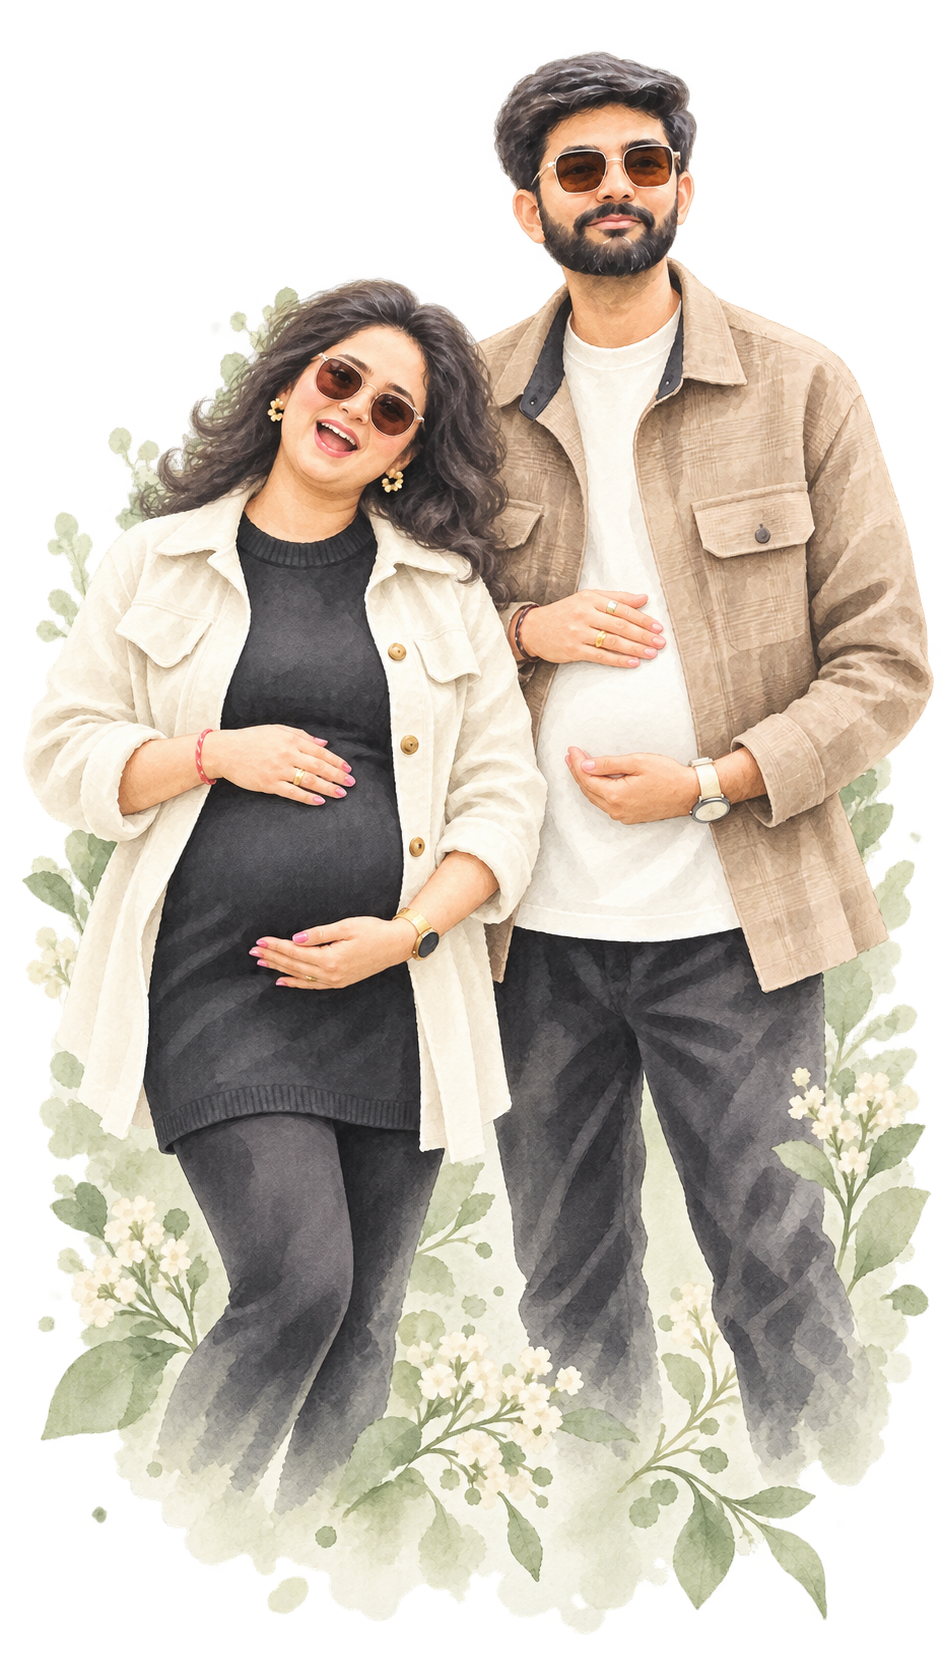
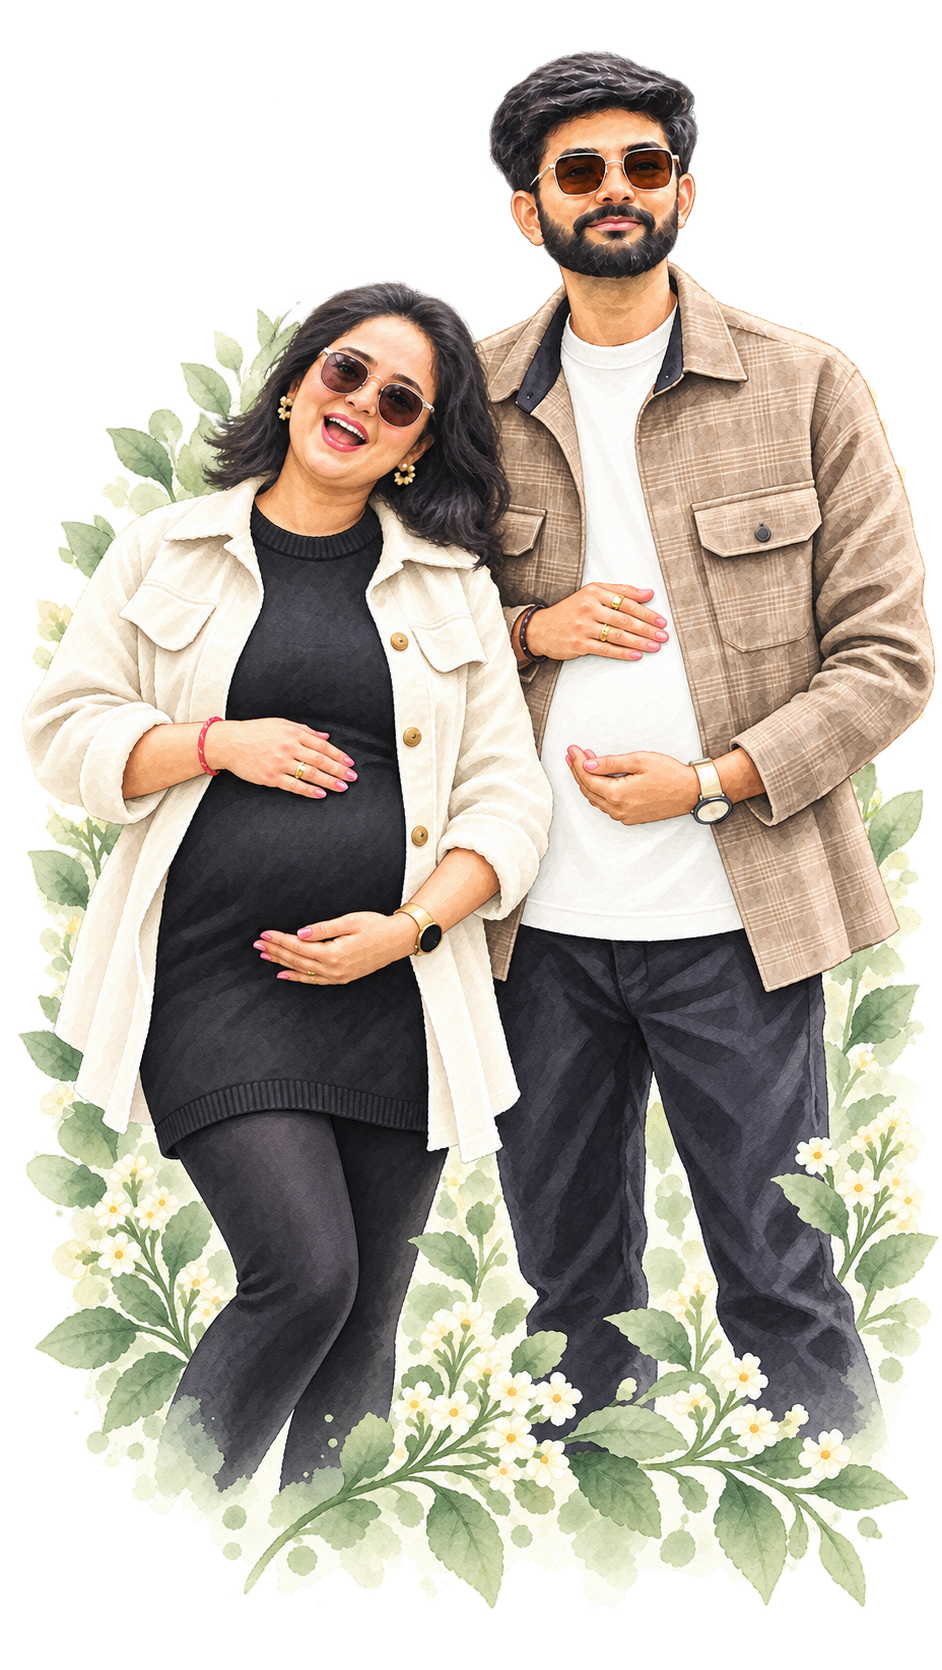
Update approved portrait, fix RSVP fallback and remove template assets

diff --git a/index.html b/index.html
@@ -115,7 +115,7 @@
       <div class="form-content reveal-on-scroll" data-teddy-cover>
         <p class="eyebrow">Come join the fun</p><h2 id="rsvp-title">We’d love to have you <em>with us.</em></h2>
         <p class="section-intro">Let us know who’s coming along.</p><p class="rsvp-deadline">Please RSVP by <strong>November 15, 2026</strong></p>
-        <p class="form-availability" id="form-availability" role="status">Our RSVP form will be ready soon. Please check back before November 15.</p>
+        <p class="form-availability" id="form-availability" role="status" hidden>Having trouble sending your RSVP? Message Aruni or Jaydeep on WhatsApp and we’ll help you out.</p>
         <a id="google-form-link" class="button" href="#rsvp" hidden target="_blank" rel="noopener noreferrer">Let us know you’re coming <span aria-hidden="true">↗</span></a>
         <form class="rsvp-form" id="rsvp-form" method="post" novalidate>
           <div class="field"><label for="guest-name">Your name</label><input id="guest-name" name="name" type="text" autocomplete="name" maxlength="100" placeholder="Your name or family name" required aria-describedby="name-error"><p class="field-error" id="name-error"></p></div>
@@ -128,7 +128,7 @@
           <button class="button submit-button" id="submit-rsvp" type="submit" disabled><span>Send RSVP</span><span aria-hidden="true">↗</span></button><p id="form-status" class="form-status" role="status" aria-live="polite" tabindex="-1"></p>
         </form>
         <div class="rsvp-success" id="rsvp-success" hidden tabindex="-1"><span aria-hidden="true">♡</span><h3>Yay! See you at the party!</h3><p>Thank you for letting us know.<br>We’re looking forward to celebrating with you!</p><p id="rsvp-receipt"></p></div>
-        <noscript><p>Please enable JavaScript to send your RSVP. The event details and venue link are available above.</p></noscript>
+        <noscript><p>Please enable JavaScript to use the RSVP form.</p></noscript>
       </div>
     </section>
   </main>

diff --git a/js/invitation.js b/js/invitation.js
@@ -260,17 +260,22 @@
       const current = Object.fromEntries(Object.entries(fields).map(([name, input]) => [name, input.value]));
       const canSend = !serverClosed && core.canSubmitRsvp(config.rsvpDeadline, current, attempt);
       submit.disabled = inFlight || !canSend || !endpointReady;
+      let message = !endpointReady && !formLinkReady
+        ? 'Having trouble sending your RSVP? Message Aruni or Jaydeep on WhatsApp and we’ll help you out.'
+        : '';
       if (!open) {
-        availability.textContent = canSend
+        if (endpointReady || formLinkReady) message = canSend
           ? 'Our RSVP date has passed. You can still retry your unchanged details to check their confirmation.'
           : 'Our RSVP date has passed. Thank you for all the love!';
-        availability.hidden = false;
         byId('google-form-link').hidden = true;
       } else if (!endpointReady && formLinkReady) {
-        form.hidden = true; availability.hidden = true;
+        form.hidden = true;
         byId('google-form-link').href = config.googleFormUrl;
         byId('google-form-link').hidden = false;
-      } else availability.hidden = endpointReady;
+      }
+      // Only show contact guidance when no RSVP destination was configured.
+      if (availability.textContent !== message) availability.textContent = message;
+      availability.hidden = !message;
     }
     function showErrors(errors) {
       Object.entries(fields).forEach(([key, input]) => {

diff --git a/docs/SETUP.md b/docs/SETUP.md
@@ -14,7 +14,7 @@ The event is November 29, 2026, **10 AM onwards**, Hamilton time. The fixed coun
 
 ## Connect the custom RSVP form to a private Sheet
 
-The form is implemented, but it cannot store live responses until the hosts deploy their receiver. With an empty `rsvpEndpoint`, the invitation clearly says the form is not ready and disables submission. It never claims to save an RSVP without a confirmed server receipt.
+The custom form stores responses through the hosts’ deployed receiver. Without a configured receiver or Google Form alternative, submission is disabled and guests are advised to contact Aruni or Jaydeep on WhatsApp. This fallback is hidden when an RSVP destination is configured, including after a failed submission. It never claims to save an RSVP without a confirmed server receipt.
 
 1. Open [Google Apps Script](https://script.google.com/) in the account that should own the response Sheet, and create a new project.
 2. Paste the contents of `apps-script/Code.gs` into the project's `Code.gs`.
@@ -23,7 +23,7 @@ The form is implemented, but it cannot store live responses until the hosts depl
 5. Share **that Sheet** only with your co-hosts. Do not publish it or turn on public link sharing.
 6. Select **Deploy → New deployment → Web app**. Set **Execute as: Me** and **Who has access: Anyone**. Guests need anonymous access to submit; the script uses your permissions to write to the private Sheet. Deployment availability can depend on your Google Workspace administrator.
 7. Copy the deployed URL ending in `/exec`. In your GitHub repository, open **Settings → Secrets and variables → Actions → New repository secret**. Name it **RSVP_ENDPOINT** and paste the URL as its value. Leave `rsvpEndpoint` empty in `js/site-config.js`.
-8. After the updated workflow is pushed, run the Pages workflow on the branch you intend to deploy, or push to `main` or `master`. Adding or changing a secret alone does not trigger deployment. The build inserts the URL into `_site/js/site-config.js`, leaving the source configuration unchanged. Invalid nonempty URLs fail the build; without a secret, the default custom form stays disabled.
+8. Set **Settings → Pages → Build and deployment → Source** to **GitHub Actions**. Then run **Publish invitation to GitHub Pages** on the branch you intend to deploy, or push to `main` or `master`. Adding or changing a secret alone does not trigger deployment. The build inserts the URL into `_site/js/site-config.js`, leaving the source configuration unchanged. Invalid nonempty URLs fail the build. An Actions build also fails when the receiver secret is missing unless an official Google Form alternative is configured, preventing a release with a disabled RSVP form.
 9. Reload the deployed invitation. The form becomes available until the RSVP deadline. Make one explicitly authorized test response yourself and confirm that it appears in the private Sheet before sharing the invitation.
 
 The repository secret prevents the URL from appearing in committed source. The deployed JavaScript and browser requests still expose it to visitors, because the browser submits directly to Apps Script. Keep the response Sheet restricted; endpoint secrecy is not guest authentication. Never place Google credentials or Sheet contents in this setting.
@@ -34,7 +34,7 @@ For local use, put the same deployed `/exec` URL in the root `.env` file:
 RSVP_ENDPOINT=https://script.google.com/macros/s/YOUR_DEPLOYMENT_ID/exec
 ```
 
-The build loads `.env` automatically. Existing shell or GitHub Actions environment values take priority. `.env` and its variants are ignored by Git; `.env.example` contains only an empty template. Run `npm run dev` to build and preview with the configured endpoint. Opening the source `index.html` directly does not load `.env`. Keep the GitHub `RSVP_ENDPOINT` repository secret configured separately for deployment, since `.env` is not pushed.
+Local builds load `.env` automatically, with existing shell environment values taking priority. Actions builds use only the workflow environment and do not load `.env`. `.env` and its variants are ignored by Git; `.env.example` contains only an empty template. Run `npm run dev` to build and preview with the configured endpoint. Opening the source `index.html` directly does not load `.env`. Keep the GitHub `RSVP_ENDPOINT` repository secret configured separately for deployment, since `.env` is not pushed.
 
 When editing the Apps Script later, update its deployment to a new version. Merely saving editor changes does not update the deployed version. Keep its existing deployment URL when possible.
 
@@ -57,6 +57,8 @@ The real photos have not been supplied, so the invitation uses teddy and floral 
 1. Push the reviewed project to your own repository. In **Settings → Pages → Build and deployment**, choose **GitHub Actions**.
 2. The included `pages.yml` workflow runs checks and deploys `_site/` after a push to `main` or `master`, or when manually dispatched. The implementation branch itself is not automatically published.
 3. Open the URL provided by GitHub's deployment and check it on a phone. Relative asset links support project sites under `/repository-name/`.
+
+If RSVP stops working after a successful deployment, check the Pages **Source** first. **Deploy from a branch** publishes the unbuilt files from `main`, where `rsvpEndpoint` is intentionally empty. That deployment does not read Actions secrets and can replace a correctly built site. Select **GitHub Actions**, then rerun **Publish invitation to GitHub Pages** for `main` and reload the invitation when it finishes. The response Sheet and Apps Script deployment do not need to be recreated for this configuration issue.
 
 The template author's `CNAME` has been removed. Add your own only if you have configured a custom domain, and include it in the build allowlist. A private source repository does not normally make the published site private. Only the invitation is deployed; the response Sheet stays in your Google account.
 

diff --git a/docs/watercolor-memories.md b/docs/watercolor-memories.md
@@ -11,9 +11,11 @@ Final saved paths:
 - [PNG](../img/invitation/memories/couple-6929.png)
 - [WebP](../img/invitation/memories/couple-6929.webp)
 
+The opening illustration was regenerated on November 1, 2026 and approved by the hosts after a revision focused on Aruni’s likeness. The original IMG_6929 photograph was the authoritative identity reference; the preceding generated version supplied the composition and watercolor treatment. The approved PNG retains transparency and the original 942 × 1670 dimensions; the public WebP is a lossless copy. Built-in image generation was used.
+
 Final prompt:
 
-Use case: style-transfer. REDRAW the people in image 1 as a distinctly illustrated, airy pastel watercolor storybook painting, matching the PEOPLE treatment in style reference image 2. Image 1 is the edit target: keep the same couple, sunglasses, woman on left smiling and cradling her bump, man on right playfully holding his stomach, same clothes and recognizable hair/face silhouettes. Image 2 is only the visual style reference. This must look like an illustrator painted the people from scratch, with SIMPLIFIED faces, broad translucent brush-painted skin tones, soft unoutlined contours, gently stylized natural proportions and flowing shapes. Use a few elegant painted marks for facial features. Hair should be broad dark flowing painted shapes and a simplified beard, not individual strands. Clothes should be pale flowing watercolor blocks with a few hand-painted folds; no photographic fabric weave, pores, sharp realistic highlights, or photographic facial texture. Remove the photo-like treatment completely. The level of simplification should be like the small illustrated couple in image 2, brought closer for readability. Warm, joyful, graceful, not chibi or exaggerated cartoon, not vector. Keep the same playful pose and identities through hairstyle, beard, sunglasses, expression, body proportions and clothes, accepting a painterly interpretation of their faces. Sparse pale sage leaves and white flowers may dissolve around the lower body; much lighter and less detailed than image 1. Portrait composition; whole heads and hands fully visible, lower edge softly painted away. Fresh cool off-white, pale sage and charcoal with natural warm skin; no creamy yellow background. Truly TRANSPARENT beyond the irregular hand-painted edges. No hard frame, no text, no logos, no watermark, no extra people or props.
+Use case: identity-preserve. Revise illustration IMAGE 2 with a highly targeted correction: the WOMAN ON THE LEFT must closely resemble the actual woman in ORIGINAL PHOTO IMAGE 1. Image 1 is the authoritative identity reference; image 2 is the edit target. The previous rendering changed her likeness too much. Study her original face carefully: preserve her actual facial proportions, rounded cheek and jaw contours, forehead height, nose shape and width, lip shape, exact open laughing mouth and visible teeth, chin, original head tilt, original sunglasses shape/size/angle and hairline. Do not slim or lengthen her face, sculpt her cheekbones, change her smile into a generic smile, enlarge her mouth or teeth, beautify her into another person, alter her age, change her skin tone, or invent facial features. Match the original face as closely as possible using light translucent watercolor rendering; keep more faithful facial detail where necessary for likeness. Her shoulder-length dark hair and earring placement should also match the original photo, not the more voluminous invented hair of image 2. Keep the MAN's current appearance and recognizable face unchanged, and preserve the watercolor clothes, relative heights, playful belly-cradling pose, four hands total, natural anatomy, sparse sage/white botanicals, portrait framing, and airy watercolor brush textures from image 2. The goal is the SAME illustration with the woman's true facial likeness corrected from image 1. True transparent background, irregular softly painted edges, no solid paper backdrop. No text, logo or watermark. One image.
 
 ## February reveal — heart-hands portrait
 

diff --git a/README.md b/README.md
@@ -20,9 +20,9 @@ Node 22 or newer runs these commands. The build writes only the invitation's pub
 
 See [the setup guide](docs/SETUP.md). The Google Apps Script receiver is included in `apps-script/`; it creates a private response Sheet and validates every submission. Store its deployed `/exec` URL in the GitHub Actions repository secret `RSVP_ENDPOINT`, and leave `rsvpEndpoint` empty in `js/site-config.js`. The Pages build inserts the URL into the published configuration. Visitors can still see the endpoint in the deployed site. An official Google Form URL is also supported as an alternative.
 
-A disconnected source preview shows that RSVP collection is not ready; `npm run dev` uses the configured local endpoint. A successful confirmation is shown only after a matching server receipt. Three watercolor illustrations based on the hosts' supplied photographs appear in the opening, February reveal and shower sections.
+A disconnected source preview directs guests to WhatsApp for RSVPs; `npm run dev` uses the configured local endpoint. The WhatsApp fallback is hidden when an RSVP destination is configured. A successful confirmation is shown only after a matching server receipt. Three watercolor illustrations based on the hosts' supplied photographs appear in the opening, February reveal and shower sections.
 
-GitHub Pages deployment is defined in `.github/workflows/pages.yml`. Choose GitHub Actions as the Pages source in your own repository. No deployment has been made by this implementation.
+GitHub Pages deployment is defined in `.github/workflows/pages.yml`. Choose **GitHub Actions** as the Pages source so the generated `_site/` artifact is published. **Deploy from a branch** bypasses endpoint injection and publishes a blank RSVP configuration even when the repository secret is correct. Actions builds refuse to publish without an RSVP receiver or configured Google Form alternative.
 
 ## Project files
 
